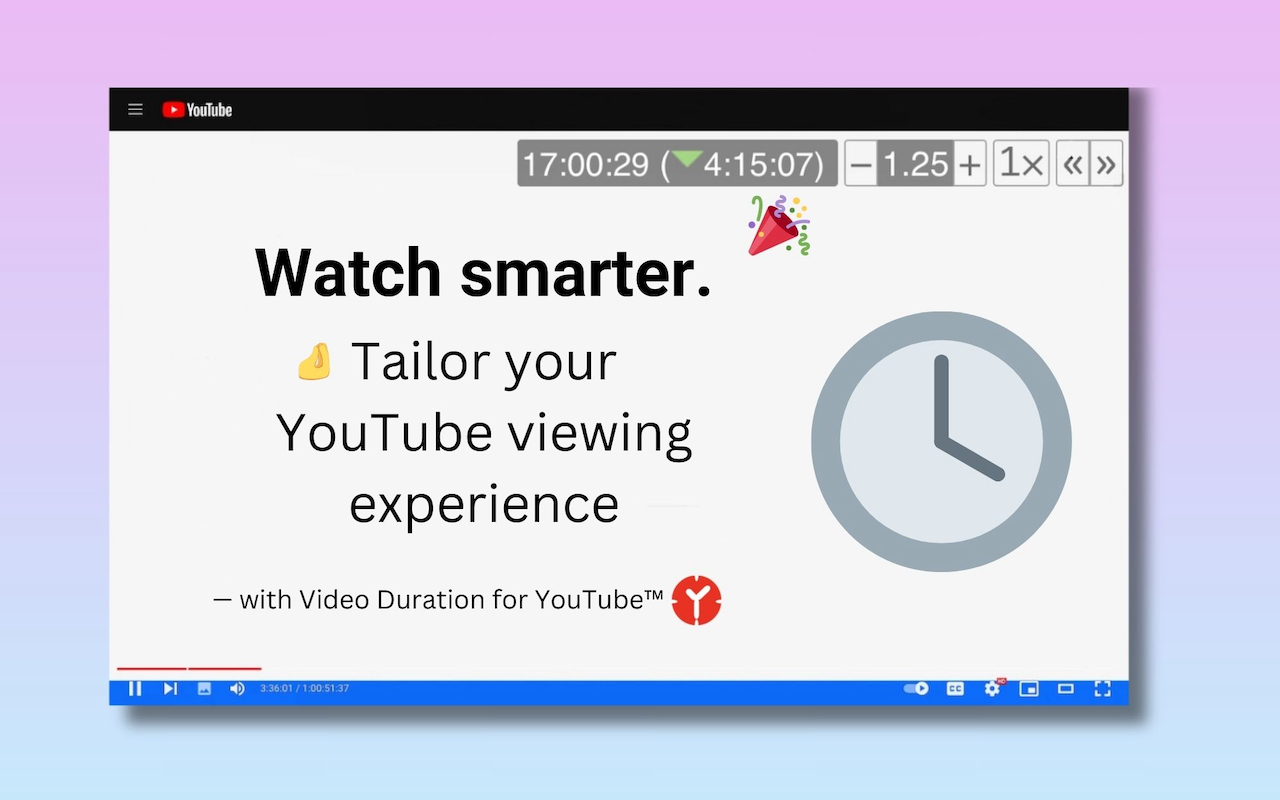
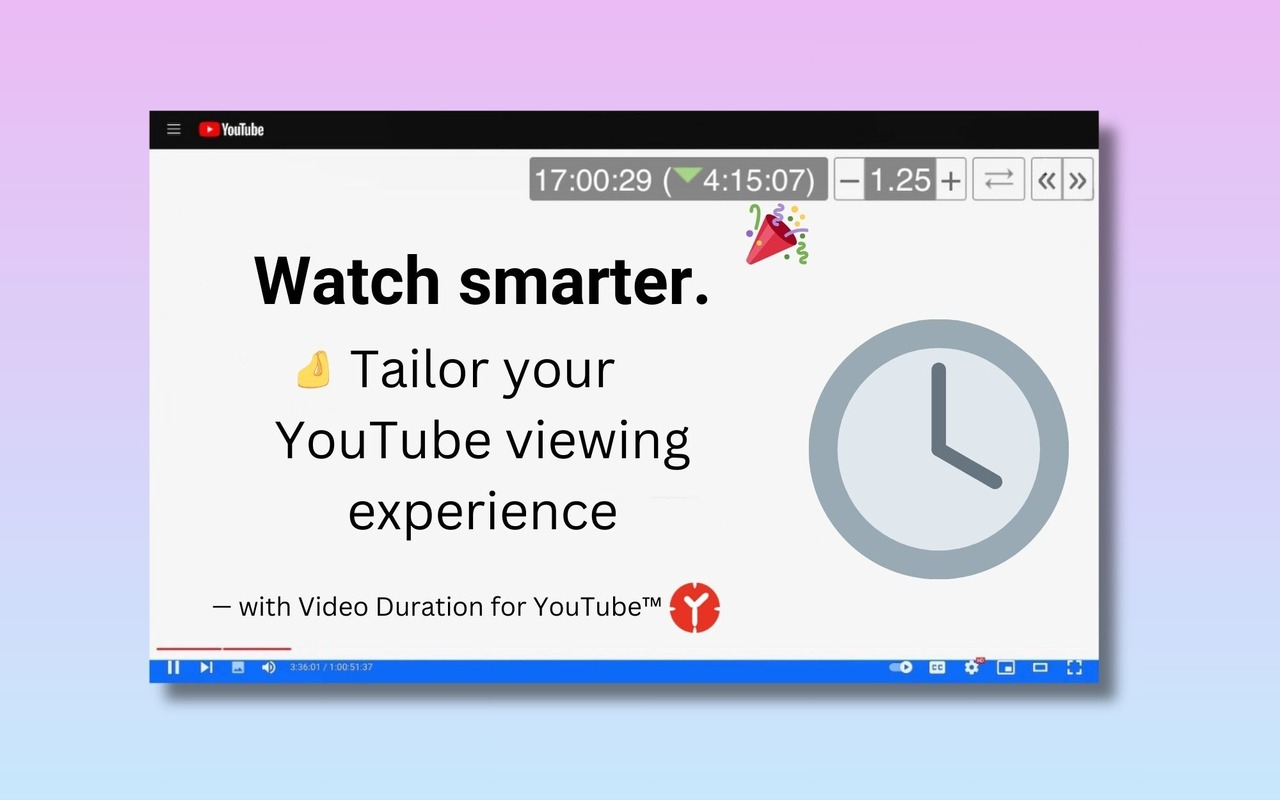
update version

Changed region(s): [[0.0625, 0.0938, 0.9062, 0.9375], [0.625, 0.5312, 0.8125, 0.75]]

diff --git a/index.html b/index.html
@@ -27,8 +27,8 @@
             <div class="line"></div>
             <div class="alert" style="display: none">
                 <span class="closebtn">&times;</span>
-                <strong>New shortcut!</strong> </br>
-                Press V to show/hide controller
+                <strong>Upgraded!</strong> </br>
+                Jump to 1x <em>and back</em> using the ⇄ button
             </div>
             
             <div class="content-container">
@@ -54,7 +54,7 @@
                                     <input type="checkbox" id="enableController">
                                     <span class="slider round"></span>
                                 </div>
-                                <p>Controller&nbsp;
+                                <p>Controller (v)&nbsp;
                                     <i class="fa-regular fa-circle-question tooltip">
                                         <span class="tooltiptext">Keeps time and buttons on screen</span>
                                     </i>

diff --git a/README.md b/README.md
@@ -10,7 +10,8 @@ Find it here:
 [Chrome Web Store](https://chrome.google.com/webstore/detail/duration-calculator-for-y/djphelnkeombgogeophphofmjkbooofh)
 
 ## ⚡ Features ⚡
-:white_check_mark: Adjust video playback speed beyond 2x, or jump to 1x   
+:white_check_mark: Adjust video playback speed beyond 2x 
+:white_check_mark: Jump to 1x speed, then switch back to the previous speed in one click  
 :white_check_mark: Find out how much time will be saved or added compared to watching at 1x speed  
 :white_check_mark: Know how long it takes to watch the rest of the video at current speed  
 :white_check_mark: Know your YouTube Shorts: know video length, change video speed, skip through video  
@@ -29,12 +30,16 @@ Find it here:
 | Show/hide controller       | V                                       |
 
 ## 🎉 Updates 🎉
+**1.0.7.4**
+- The previous '1x' button can now be used to jump between 1x and the speed right between the jump
+- Improve shortcut to show/hide controller
+
 **1.0.7.3**
 - Add shortcut to show/hide controller
 - Add banner to notify users of new updates
 
 **1.0.7.2**
-- All shortcuts are available for YouTube Shorts.
+- All shortcuts are available for YouTube Shorts
 
 **1.0.7.1**
 - Improve performance by removing unnecessary time updates
